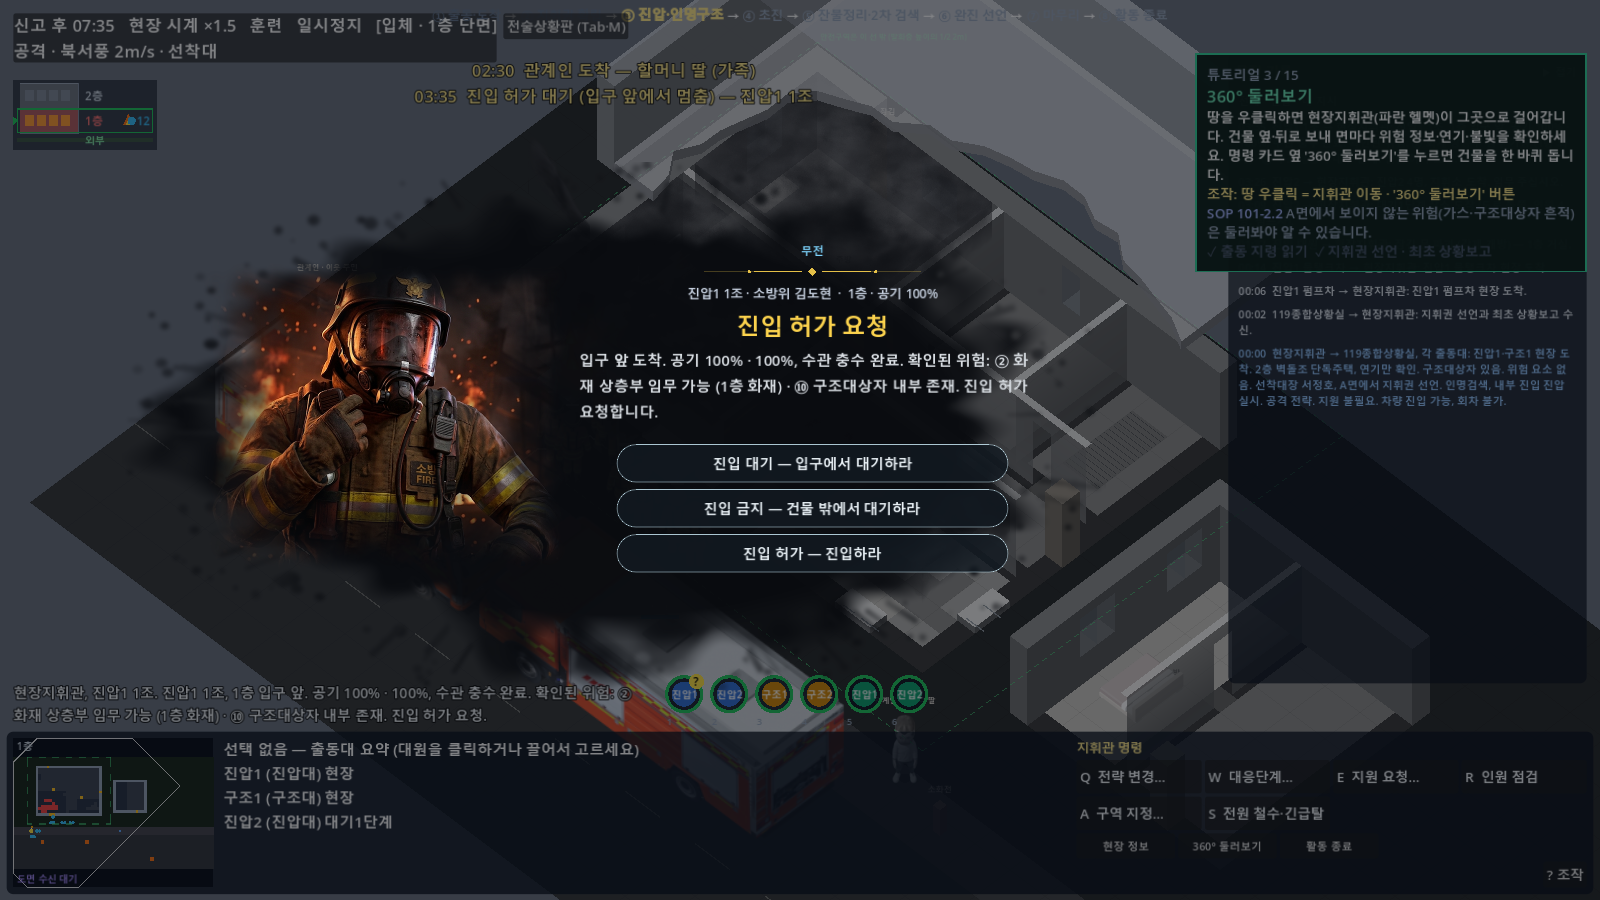
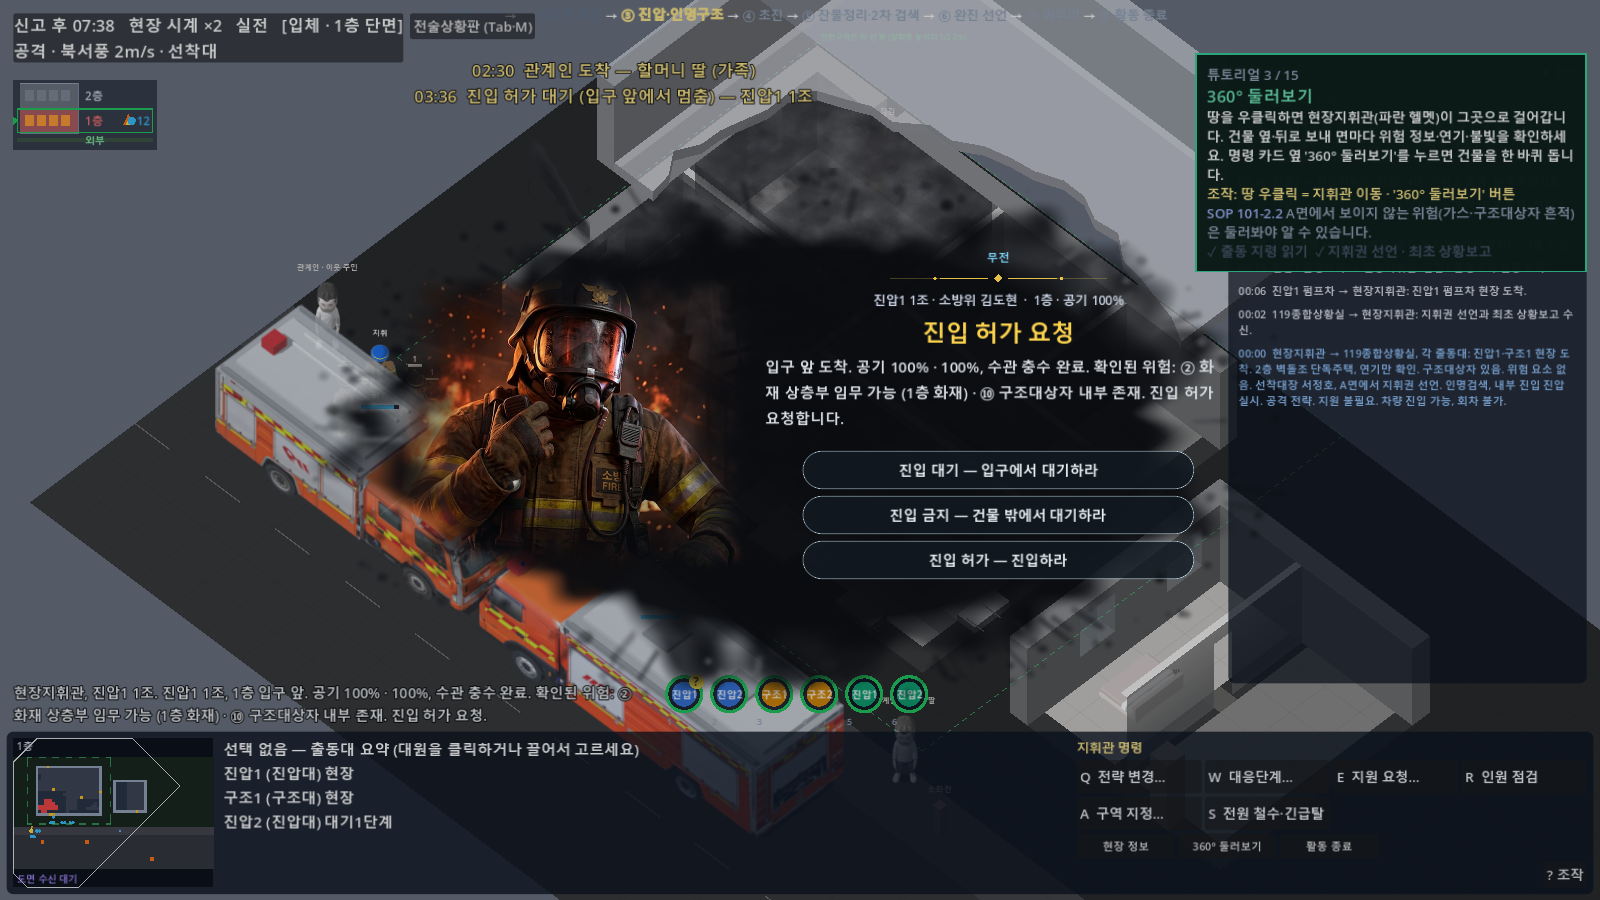
G3-1: 무전·판단 장면의 제한 시간과 시간 막대를 없앰 (답할 때까지 남고 그 조는 기다리며 다시 부른다), 장면을 화면 정가운데로

diff --git a/docs/decisions.md b/docs/decisions.md
@@ -157,3 +157,4 @@
 | 2026-11-14 | G3 | 조작·화면의 큰 틀 (다시 정함) | 패널·목록을 늘리는 안은 접는다(너무 복잡). ① **걸려 오는 무전**(대원·상황실·관계인 → 지휘관)은 화면 가운데 '무전 장면': 말하는 사람 일러스트 + 한두 줄 + 선택지(최선·허용·오답·치명). 판단을 묻는 무전만 멈추고 단순 보고는 자막. 훈련 방식은 시간이 멈추고 고른 직후 한 줄(등급 색 + SOP 조항), 실전 방식은 멈추지 않고 제한 시간·끝난 뒤 평가에서만 ② **지휘관이 거는 무전**은 '지휘관 명령 칸': 보고·지원·안전·구역 네 묶음. 항상 보이고 때가 됐다고 나타나거나 빛나지 않는다(일찍 눌러도 막지 않고 기록). 안내 없이 스스로 하고 시점·순서로 평가받는다 ③ 지휘관의 일을 물어 주던 카드 약 9장은 없앤다. 대원이 스스로 할 일을 묻던 카드 약 6장은 대원이 SOP대로 알아서 한다 ④ 처음 지시는 조 얼굴을 건물의 층·확인된 방에 끌어다 놓는다(역할이 일을 정함). 안 본 곳은 층 단위 ⑤ 안내는 튜토리얼에만. 최초 상황보고 8항목 양식은 유지하되 한 화면에서 빠르게 | 사용자 결정. 지휘관이 스스로 할 일을 카드로 띄우면 답을 알려 주는 것 — 평가 규칙은 이미 시점·순서로 채점한다. 안 한 일은 나중에 무전으로 돌아온다(집결지 없으면 "어디에 둘까요?"). 프로스트펑크의 사건 창 방식. 기획안 3-3(항상 실시간)·7장(카드)·9-1(조작)을 바꾸는 결정 — 기획안에 옮길 것 |
 | 2026-11-14 | G3 | 대원(조장)의 판단 장면 | 대원이 스스로 판단할 일(롤오버 징후·문 개방·주수 방법·공기 경보·중증도 분류 등 15장)은 지휘관에게 묻는 무전이 아니라 **조장의 판단 장면**: 왼쪽에 얼굴 반쪽 그림, 세로 줄, 오른쪽에 기울인 글씨의 속말과 선택 단추 (프로스트펑크 독백 방식, 사용자 예시 그림). 플레이어가 그 조장으로서 고르고 그 조가 그대로 움직인 뒤 지휘관에게 보고가 간다. 꼬리표('조장의 판단'/'무전')와 색으로 구분. 시작 화면에서 켜고 끈다 — 켬 = 전 직원 훈련 / 끔 = 지휘관 훈련(대원이 SOP대로 알아서, 보고만). 2026-11-14 앞서 정한 '대원이 알아서 할 6장은 자동'을 대체 | 사용자 결정. 화재 현장의 메커니즘과 전술을 모든 직원이 알아야 지휘관과 약속된 플레이가 된다. 실제로도 조장은 롤오버 징후를 지휘관에게 묻지 않고 스스로 판단한다. 남은 일: 평가를 지휘 판단·현장 판단으로 나누기 |
 | 2026-11-14 | G3 | 화면 분위기 | 시안(전체를 차갑고 어둡게, 불·차량·방화복의 따뜻한 색만 살림, 가장자리 어둡게)을 **시간대에 맞춰** 적용: 밤 시나리오는 시안처럼, 낮 시나리오는 약하게 | 사용자 결정 (프로스트펑크 분위기). 낮 2시가 밤처럼 보이면 상황과 맞지 않는다. 아직 적용 전 — 시나리오에 시간대 값이 필요 |
+| 2026-11-14 | G3 | 무전·판단 장면의 제한 시간 | **없앰.** 줄어드는 막대도 없앤다. 장면은 답할 때까지 남는다 — 실전 방식은 시간이 계속 흘러 그 조가 기다리고(불은 커지고 공기는 준다), 기다리는 조는 20초마다 자막으로 다시 부른다. 뒤의 무전은 버려지지 않고 차례를 기다린다(예전 최대 3건). 장면은 화면 정가운데에 | 사용자 결정 (직접 해 본 뒤): 막대가 다 지나면 선택창이 사라져 글을 다 읽을 수 없었다. 무전은 1:1이라 답하지 않으면 그 조가 움직이지 않는 것으로 충분한 대가다. 기획안 3-3(제한시간)을 바꾸는 결정 — 기획안에 옮길 것 |

diff --git a/docs/progress.md b/docs/progress.md
@@ -76,3 +76,4 @@
 | 2026-11-14 | G3-1 무전 장면 | scripts/ui/card_ui.gd(화면 가운데 장면: 말하는 사람 그림·이름, 무전 내용, 선택지, 고른 직후 한 줄), scripts/world.gd(훈련 방식에서 장면 동안 시간 멈춤), data/art.json(portraits), art/portraits(임시 그림 4장), tools/blender/portrait.py(새), tests/ui_radio.gd(새)·ui_smoke.gd(조작 점검에서는 장면 끔)·_shot_radio.gd(캡처 도구), docs/ref/radio_scene.png | 훈련: 장면 동안 멈춤·뒤 화면 어둡게·고르면 등급과 근거 한 줄 / 실전: 멈추지 않고 남은 시간 막대·등급 숨김. 화면 점검 ui_radio 22항목·ui_smoke 139·ui_command_card·ui_end_menu 통과. 남음: 그림은 대원 3D 모델 상반신 임시본(품질 낮음), 상황실·관계인 그림 없음(글자 표시), 무전 문구가 길다(카드 정리 때 줄임), 도착 후 4분에 무전 14건 — 지휘관의 일을 묻는 9장·대원이 알아서 할 6장 정리 전. Blender가 처음에 C:\art\portraits\crew_fire.png.tmp.png 한 파일을 잘못 만들었다(지워도 됨). 다음: 지휘관 명령 칸, 카드 정리 |
 | 2026-11-14 | G3-1 무전 장면을 프로스트펑크 구성으로 | scripts/ui/card_ui.gd(먹물 바탕·큰 인물 그림·꾸밈 줄·큰 제목·둥근 단추), art/portraits(사용자 제공 캐릭터 그림에서 자른 상반신 4장 — 헬멧 색만 다름), art/ui/ink_blot.png(새), tools/prep_radio_art.py(새, 그림 준비), shaders/mood_grade.gdshader(분위기 시안 — 게임에는 아직 안 넣음), tests/ui_radio.gd·_shot_mood.gd(시안 캡처), docs/ref/radio_scene.png·mood_now.png·mood_trial.png, data/art.json·credits.json | 사용자 예시 그림(프로스트 펑크 무전화면 예시.jpg) 구성을 따름. Blender 임시 상반신(tools/blender/portrait.py)은 지움. 화면 점검 ui_radio·ui_smoke 통과. 분위기 시안: 전체를 차갑고 어둡게, 따뜻한 색(불·차량·방화복)만 살림 + 가장자리 어둡게 — 적용 여부 사용자 결정 대기 |
 | 2026-11-14 | G3-1 조장의 판단 장면·사용자 일러스트 | data/cards/cards.json(scene·monologue 15장), scripts/command/card_system.gd(judgment·crew_judgment·crew_decided·기록에 장면 종류), scripts/ui/card_ui.gd(판단 장면 배치: 얼굴 반쪽·세로 줄·기울인 속말, 꼬리표), scripts/ui/scenario_menu.gd·autoload/game_manager.gd·world.gd(대원 판단 켬·끔, 다시 하기에도), scripts/evaluation/sim_event_log.gd, art/portraits(사용자 일러스트로 교체 + half_*), tools/prep_radio_art.py, data/art.json(portraits_half)·credits.json, tests/test_cards.gd, docs/ref/radio_scene.png·judgment_scene.png | 관련 테스트 48개·화면 점검 3종 통과. 구조·구급 헬멧은 같은 일러스트의 헬멧만 물들인 것(가장자리에 색이 조금 번짐). 상황실·관계인 그림 없음. 평가를 지휘/현장으로 나누는 것, 화면 분위기 적용(시간대), 무전 문구 줄이기, 지휘관의 일을 묻는 카드 9장 없애기, 지휘관 명령 칸은 아직 |
+| 2026-11-14 | G3-1 장면 제한 시간 없앰·가운데 정렬 | data/cards/card_params.json(time_limit_enabled 0·recall_s 20·queue_max 20), scripts/command/card_system.gd(timed·recall_tick·radio_recall), scripts/evaluation/sim_event_log.gd, scripts/ui/card_ui.gd(시간 막대 없앰, 화면 정가운데), scripts/world.gd(장면 멈춤은 장면의 방식 스위치를 따름), tests(test_cards·test_entry_request·test_time_axis·ui_radio) | 관련 테스트 64개·화면 점검 4종 통과. 실전 방식에서는 장면이 가운데를 가린 채 시간이 흐른다 — 접어 두기는 아직 없음. 응답까지 걸린 시간은 기록에만 있고 평가에는 아직 안 씀 |
